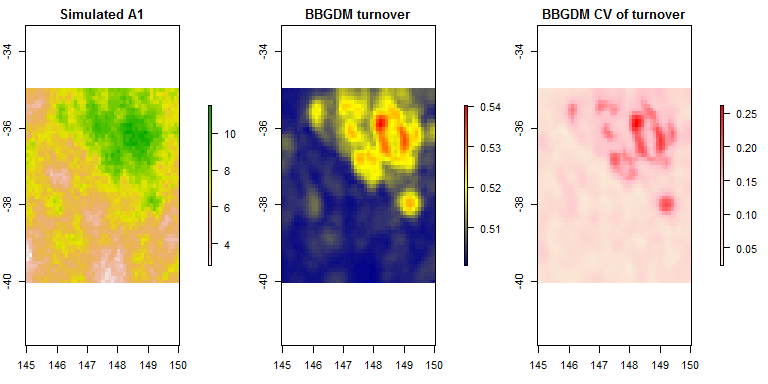
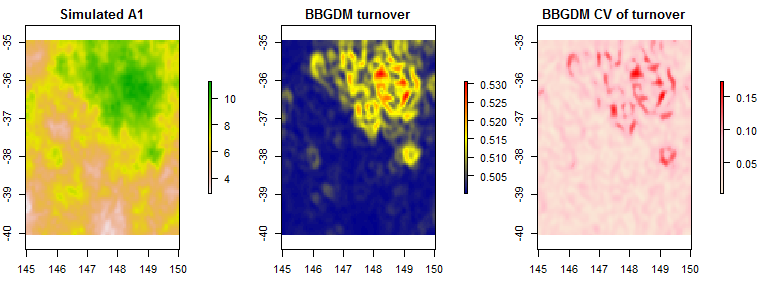
update readme

diff --git a/README.md b/README.md
@@ -67,7 +67,7 @@ print(tab, type = "html")
 ```
 
 <!-- html table generated in R 3.2.2 by xtable 1.8-2 package -->
-<!-- Tue Jul 05 17:39:33 2016 -->
+<!-- Tue Jul 05 18:04:37 2016 -->
 <table border="1">
 <tr>
 <th>
@@ -87,7 +87,7 @@ bbgdm\_p-value
 intercept
 </td>
 <td align="right">
-12.28
+10.13
 </td>
 <td align="right">
 1.00
@@ -101,13 +101,13 @@ intercept
 A1
 </td>
 <td align="right">
-1.63
+1.61
 </td>
 <td align="right">
 3.00
 </td>
 <td align="right">
-0.65
+0.66
 </td>
 </tr>
 </table>
@@ -127,9 +127,11 @@ coordinates(xy) <- ~x+y
 r <- rasterize(xy, raster(points2grid(xy)), 'z')
 #give it the same name as variable in bbgdm model.
 names(r)<- 'A1'
-
+r2 <- raster(r)
+res(r2) <- 0.05
+r2 <- resample(r, r2)
 #use this layer to predict turnover.
-pred.dune.sim.dat <- predict.bbgdm(fm1,r,uncertainty = TRUE)
+pred.dune.sim.dat <- predict.bbgdm(fm1,r2,uncertainty = TRUE)
 ```
 
     ## using default three cell neighbourhood to estimate dissimilarity
@@ -139,7 +141,7 @@ pred.dune.sim.dat <- predict.bbgdm(fm1,r,uncertainty = TRUE)
 colram <- colorRampPalette(c("darkblue","yellow","red"))
 colram.se <- colorRampPalette(c('antiquewhite','pink','red'))
 par(mfrow=c(1,3),mar=c(3,2,2,6))
-plot(r,main='Simulated A1')
+plot(r2,main='Simulated A1')
 plot(pred.dune.sim.dat[[1]],col=colram(100),main='BBGDM turnover')
 plot(pred.dune.sim.dat[[2]],col=colram.se(100),main='BBGDM CV of turnover')
 ```
